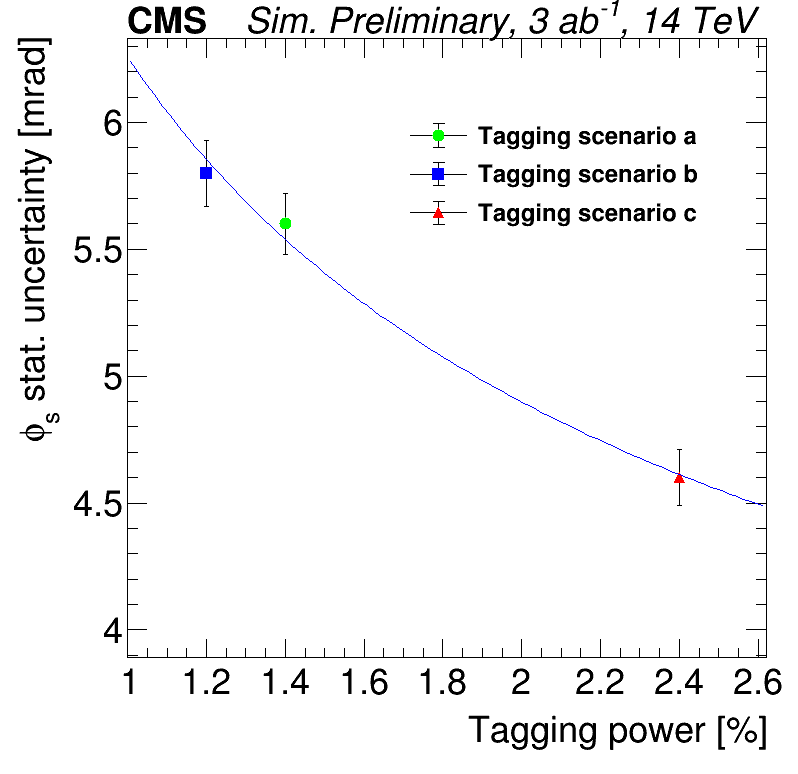
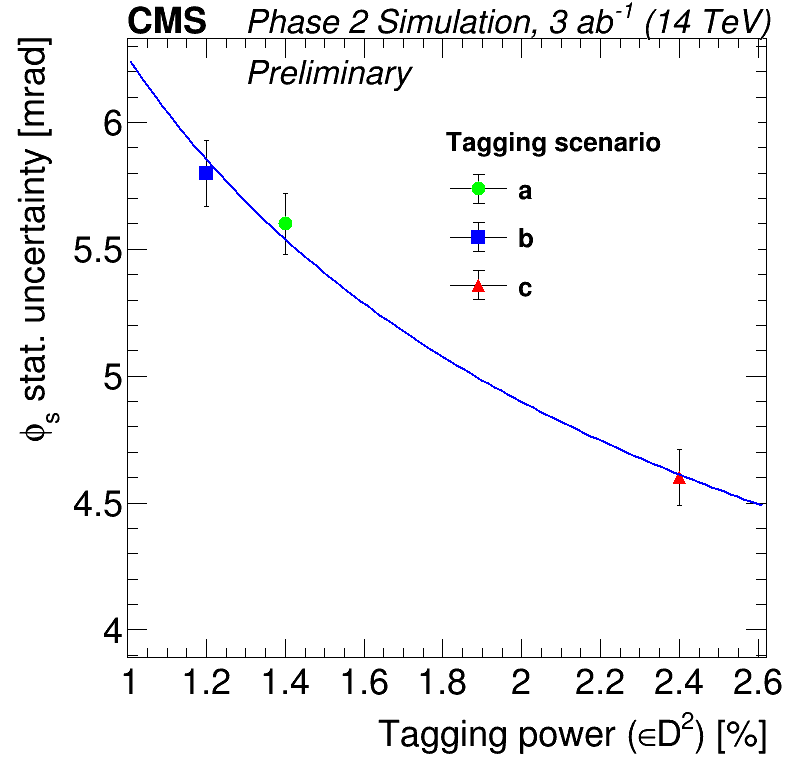
Updates from ShareLaTeX

diff --git a/section2/experimental.tex b/section2/experimental.tex
@@ -547,7 +547,7 @@ coverage (up to $|\eta|$ = 4) will increase the CMS acceptance for track reconst
 \begin{center}
 %\includegraphics[width=0.4\textwidth]{section2/figures/CMS%massplot.png}
 \includegraphics[width=0.55\textwidth]{section2/figures/CMSresoPlot.png}
-\caption{ CMS normalized proper decay decay length uncertainty in 2012 data (blue) and HL-LHC Monte Carlo (red) samples (taken from \cite{CMS-PAS-FTR-18-041}).}
+\caption{CMS c$\tau$ uncertainty distribution in 2012 data (blue) and HL-LHC Monte Carlo (red) samples(taken from \cite{CMS-PAS-FTR-18-041}) .}
 \label{fig:CMSreso}
 \end{center}
 \end{figure}
@@ -584,11 +584,11 @@ uncertainty to be 5-6 mrad at the end of the HL-LHC data taking.
 \begin{center}
 \includegraphics[width=0.5\textwidth]{section2/figures/tagging_power_ATLAS.pdf}
 \includegraphics[width=0.4\textwidth]{section2/figures/CMS_tagging_power.png}
-\caption{Variation of the $\phi_s$ statistical uncertainty in ATLAS (left) and CMS (right)  as function of the tagging power.
+\caption{Variation of the $\phi_s$ statistical uncertainty in ATLAS (left) and CMS (right)  as function of the tagging power ($\epsilon D^2$).
  The behaviour is shown for different ATLAS triggers and CMS flavour tagging scenarios as explained in the text. 
  The vertical dashed line in the ATLAS plot corresponds to the value assumed in the
 analysis extrapolation.
-The function $1/\sqrt{t}$, where $t$ is the tagging power (\%), is shown in the CMS plot to describe the $\phi_s$ uncertainty behaviour in a continuous range of the tagging power from 1.0 to 2.6 \% (CMS plot taken from \cite{CMS-PAS-FTR-18-041}).}
+A function proportional to $1/\sqrt{\epsilon D^2}$ is shown in the CMS plot to describe the $\phi_s$ uncertainty behaviour in a continuous range of the tagging power from 1.0 to 2.6 \% (CMS plot taken from \cite{CMS-PAS-FTR-18-041}).}
 %\td{can we denote a), b), c) in the plot?}
 \label{fig:CMStag}
 \end{center}

diff --git a/section5/section.tex b/section5/section.tex
@@ -381,7 +381,7 @@ $W$~and $Z$~bosons offer a complementary source of $\tau$  leptons. Their produc
 \caption{(Top) Comparison of ATLAS tau mass resolutions in the $W$- (left) and HF-channels (right) in Run-2 and under HL-LHC detector conditions.  Widths are estimated from a double-Gaussian fit. (Bottom) CMS trimuon invariant mass $m_{3\mu}$  for the $\tau \to 3\mu$
 signal (red) and background (blue) after all event selection cuts, for 
 Category 1 (left) and Category 2 (right) events, as defined in the text.
- The signal is shown for  $\mathcal{B}(\tau \to 3\mu) = 2\times10^{-8}$.}
+ The signal is shown for  $\mathcal{B}(\tau \to 3\mu) = 2\times10^{-8}$. CMS results refer to the HF channel.}
 \label{fig:mass}
 \end{center}
 \end{figure}
